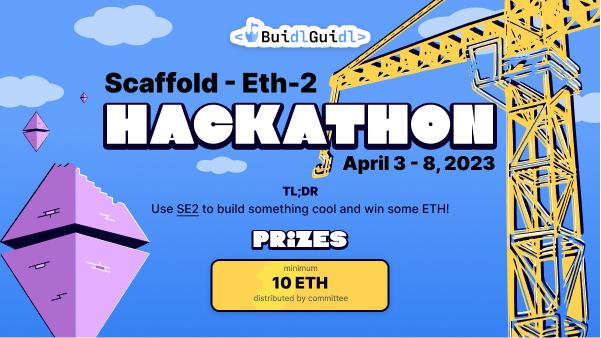
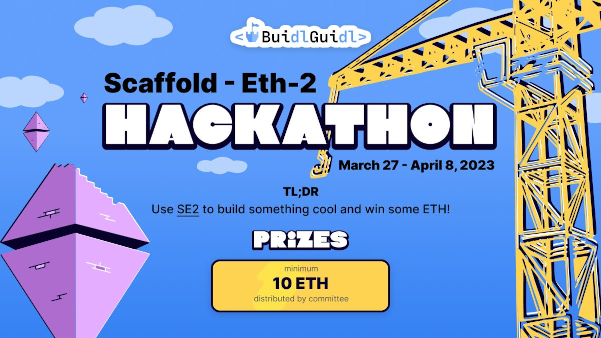
Update metas + thumbnail

diff --git a/packages/nextjs/pages/index.tsx b/packages/nextjs/pages/index.tsx
@@ -7,11 +7,14 @@ const Home: NextPage = () => {
     <>
       <Head>
         <title>SE-2 Hackathon</title>
-        <meta name="description" content="Join the SE-2 Hackathon by the BuidlGuidl. April 3-8, 2023." />
+        <meta name="description" content="Join the SE-2 Hackathon by the BuidlGuidl. March 27 - April 8, 2023." />
         <link rel="preconnect" href="https://fonts.googleapis.com" />
         <link href="https://fonts.googleapis.com/css2?family=Archivo+Black&display=swap" rel="stylesheet" />
         <meta property="og:title" content="SE-2 Hackathon" />
-        <meta property="og:description" content="Join the SE-2 Hackathon by the BuidlGuidl. April 3-8, 2023." />
+        <meta
+          property="og:description"
+          content="Join the SE-2 Hackathon by the BuidlGuidl. March 27 - April 8, 2023."
+        />
         <meta name="twitter:card" content="summary_large_image" />
         <meta property="og:image" content="/thumbnail.png" />
         <meta property="twitter:image" content="/thumbnail.png" />
